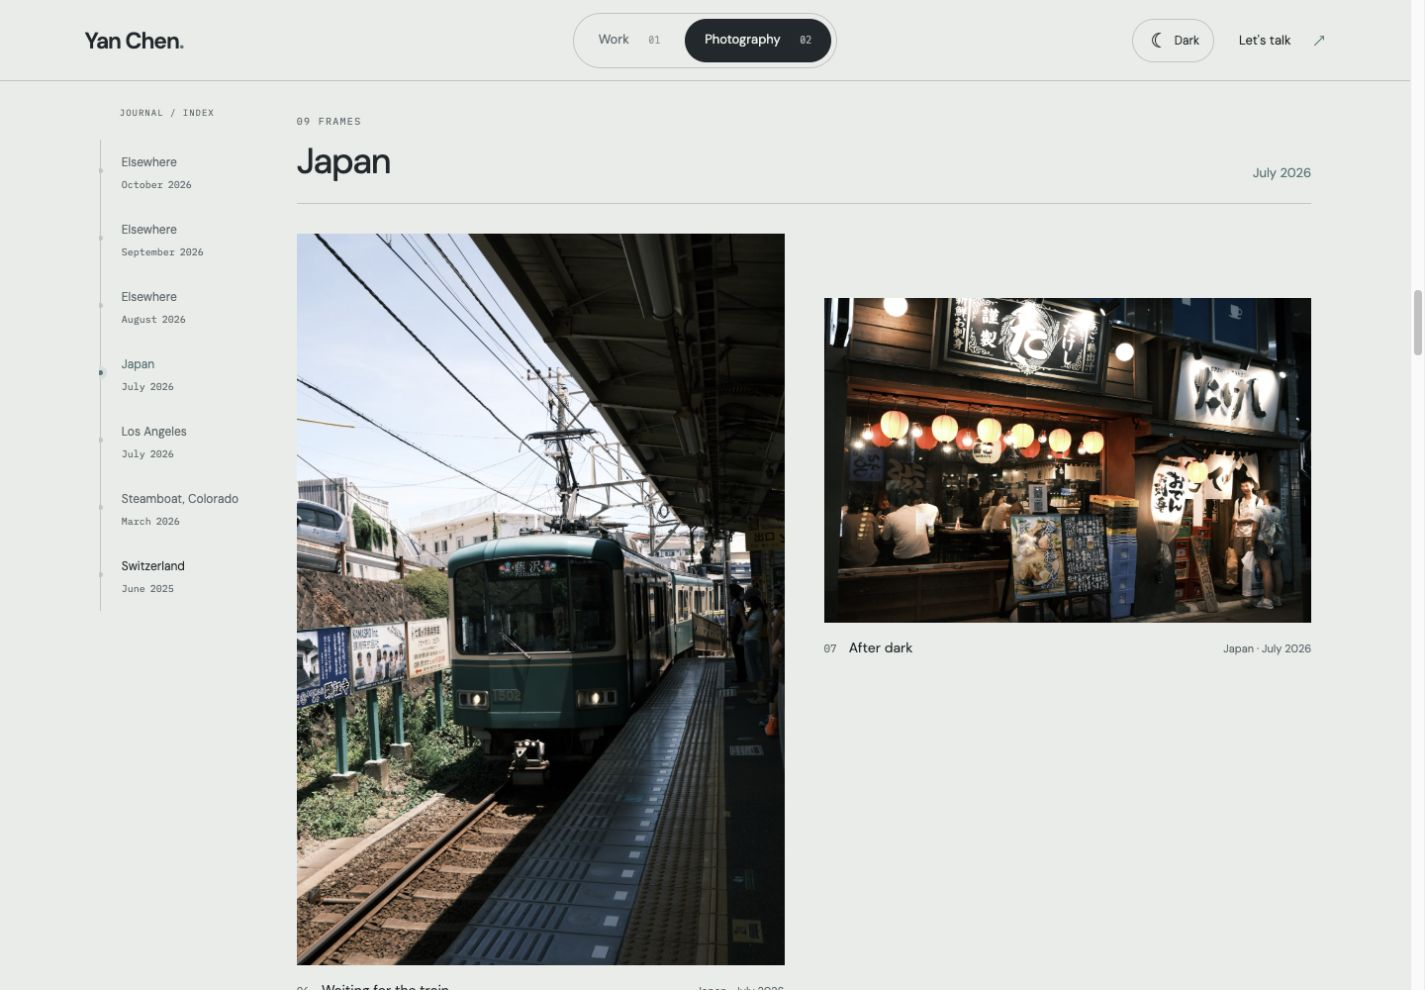
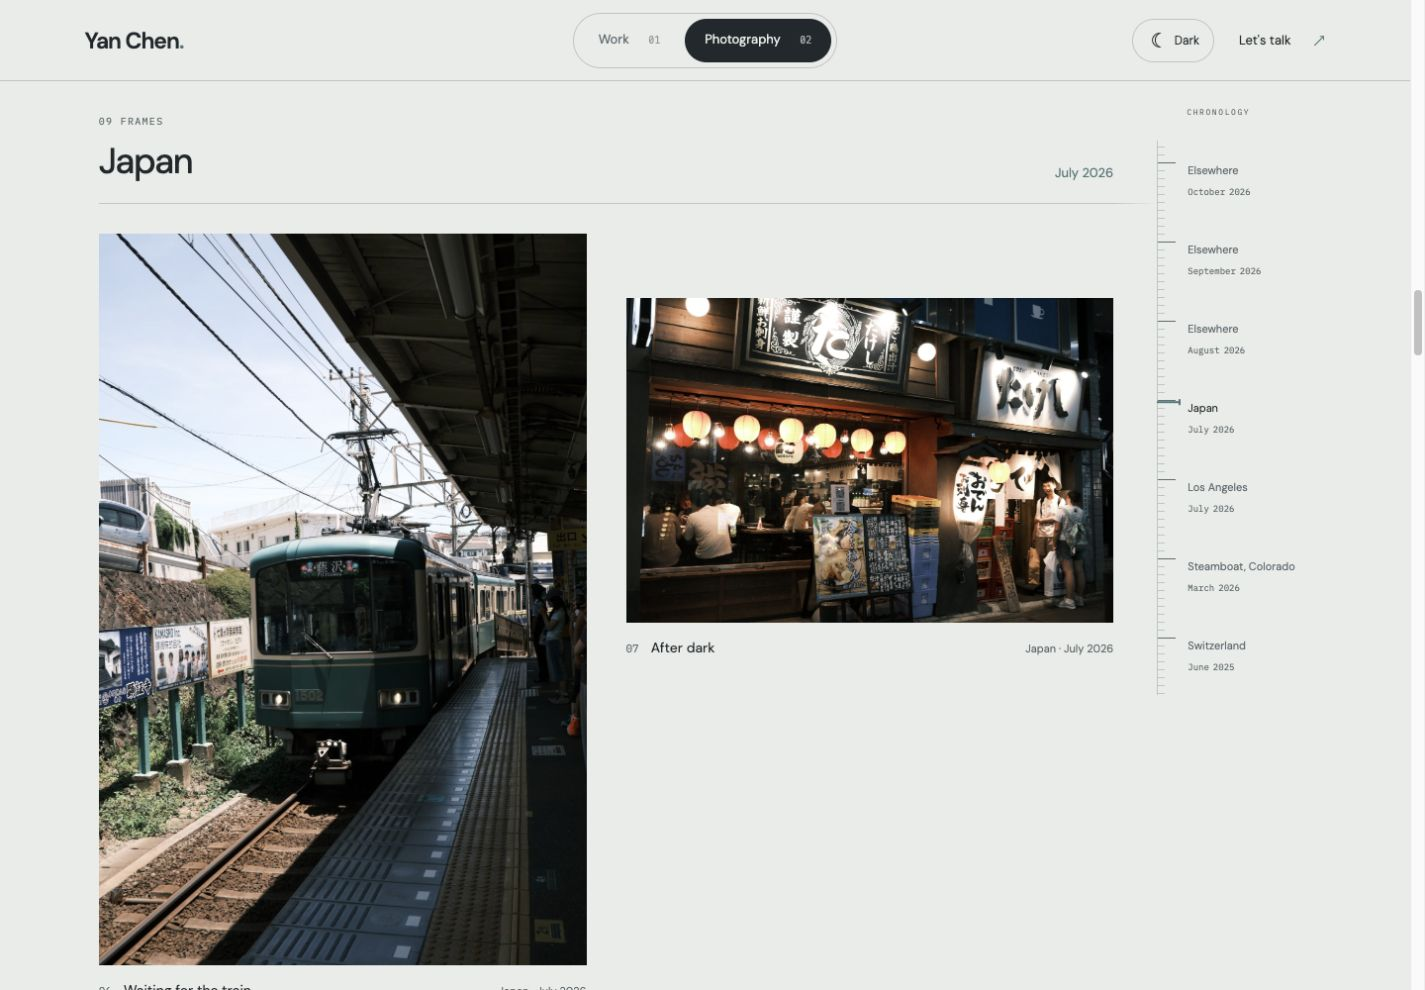
Integrate watch-style markers into the right photo timeline

diff --git a/style.css b/style.css
@@ -2713,49 +2713,112 @@ body[data-timeline="editorial"] .photo-timeline time span:last-child {
 body[data-timeline="editorial"] .photo-timeline button.active time {
   color: var(--accent);
 }
-/* 03 — Small annotations in the outer margin; the photographs lead. */
+/* The right margin becomes a continuous, watch-inspired chapter scale. */
+.timeline-hand {
+  display: none;
+}
 body[data-timeline="margin"] .photo-story {
-  grid-template-columns: minmax(0, 1fr) 140px;
-  gap: 50px;
+  --timeline-gap: 44px;
+  grid-template-columns: minmax(0, 1fr) 156px;
+  gap: var(--timeline-gap);
 }
 body[data-timeline="margin"] .photo-timeline {
   grid-column: 2;
   grid-row: 1;
-  padding: 0 0 0 16px;
-  border-left: 1px solid var(--line);
+  padding: 0;
+  border: 0;
+  background: transparent;
 }
 body[data-timeline="margin"] .photo-collections {
   grid-column: 1;
   grid-row: 1;
 }
 body[data-timeline="margin"] .photo-timeline:before {
-  content: "FIELD NOTES";
-  padding-left: 0;
-  letter-spacing: 1.5px;
+  content: "CHRONOLOGY";
+  padding: 0 0 24px 30px;
+  font-size: 8px;
+  letter-spacing: 1.6px;
 }
 body[data-timeline="margin"] .photo-timeline button {
   border: 0;
-  padding: 12px 0 12px 12px;
-  min-height: 73px;
+  border-left: 1px solid var(--line);
+  border-radius: 0;
+  padding: 12px 4px 12px 30px;
+  min-height: 80px;
+  background: transparent;
+}
+body[data-timeline="margin"] .photo-timeline button:focus-visible {
+  outline: 1px solid var(--accent);
+  outline-offset: -2px;
+}
+/* Fine divisions between the longer chapter markers. */
+body[data-timeline="margin"] .photo-timeline button:after {
+  content: "";
+  position: absolute;
+  inset: 6px auto 0 0;
+  width: 7px;
+  background: repeating-linear-gradient(
+    to bottom,
+    var(--line) 0 1px,
+    transparent 1px 8px
+  );
+  pointer-events: none;
 }
 body[data-timeline="margin"] .photo-timeline button:before {
-  width: 6px;
+  width: 18px;
   height: 1px;
   left: 0;
-  top: 20px;
+  top: 22px;
   border-radius: 0;
-  background: var(--line);
+  background: var(--muted);
   box-shadow: none;
+  z-index: 1;
 }
 body[data-timeline="margin"] .photo-timeline button.active:before {
-  width: 10px;
   background: var(--accent);
 }
 body[data-timeline="margin"] .timeline-place {
   font-size: 11px;
+  line-height: 1.5;
 }
 body[data-timeline="margin"] .photo-timeline time {
   font-size: 9px;
+  line-height: 1.5;
+  gap: 4px;
+}
+body[data-timeline="margin"] .timeline-hand {
+  display: block;
+  position: absolute;
+  top: 0;
+  left: 0;
+  width: 23px;
+  height: 2px;
+  background: var(--accent);
+  transform: translateY(var(--timeline-position, 54px));
+  pointer-events: none;
+  z-index: 3;
+}
+body[data-timeline="margin"] .timeline-hand:after {
+  content: "";
+  position: absolute;
+  right: -1px;
+  top: -2px;
+  width: 2px;
+  height: 6px;
+  background: var(--accent);
+}
+body[data-timeline="margin"] .collection-heading {
+  position: relative;
+}
+body[data-timeline="margin"] .collection-heading:after {
+  content: "";
+  position: absolute;
+  left: 100%;
+  bottom: -1px;
+  width: var(--timeline-gap);
+  height: 1px;
+  background: linear-gradient(to right, var(--line), transparent);
+  pointer-events: none;
 }
 @media (max-width: 1000px) {
   .photo-story,
@@ -2764,8 +2827,9 @@ body[data-timeline="margin"] .photo-timeline time {
     gap: 28px;
   }
   body[data-timeline="margin"] .photo-story {
-    grid-template-columns: minmax(0, 1fr) 110px;
-    gap: 25px;
+    --timeline-gap: 25px;
+    grid-template-columns: minmax(0, 1fr) 120px;
+    gap: var(--timeline-gap);
   }
   .photo-story .gallery:not(.sheet) {
     grid-template-columns: 1fr;
@@ -2792,8 +2856,9 @@ body[data-timeline="margin"] .photo-timeline time {
     margin-top: 10px;
   }
   body[data-timeline="margin"] .photo-story {
-    grid-template-columns: minmax(0, 1fr) 78px;
-    gap: 16px;
+    --timeline-gap: 16px;
+    grid-template-columns: minmax(0, 1fr) 88px;
+    gap: var(--timeline-gap);
   }
   .photo-timeline {
     top: 96px;
@@ -2866,14 +2931,16 @@ body[data-timeline="margin"] .photo-timeline time {
     align-self: start;
   }
   body[data-timeline="margin"] .photo-timeline {
-    padding-left: 8px;
+    padding-left: 0;
   }
   body[data-timeline="margin"] .photo-timeline:before {
-    font-size: 7px;
-    letter-spacing: 0.3px;
+    font-size: 6px;
+    letter-spacing: 0.5px;
+    padding-left: 22px;
   }
   body[data-timeline="margin"] .photo-timeline button {
-    padding-left: 8px;
+    padding-left: 22px;
+    min-height: 80px;
   }
   .job .job-summary {
     font-size: 15px;
@@ -2886,5 +2953,20 @@ body[data-timeline="margin"] .photo-timeline time {
   }
   body[data-timeline="editorial"] .photo-timeline time {
     font-size: 16px;
+  }
+}
+
+@media (max-width: 650px) {
+  body[data-timeline="margin"] .timeline-place {
+    font-size: 10px;
+  }
+  body[data-timeline="margin"] .photo-timeline button:before {
+    width: 14px;
+  }
+  body[data-timeline="margin"] .photo-timeline button:after {
+    width: 5px;
+  }
+  body[data-timeline="margin"] .timeline-hand {
+    width: 18px;
   }
 }

diff --git a/app.js b/app.js
@@ -3,7 +3,7 @@ document.body.dataset.timeline = ["rail", "editorial", "margin"].includes(
   requestedTimeline,
 )
   ? requestedTimeline
-  : "rail";
+  : "margin";
 const projects = [
   {
     title: "CI/CD Pipeline for Python APIs",
@@ -361,6 +361,26 @@ function updateTimeline() {
   for (const section of sections) {
     if (section.getBoundingClientRect().top <= edge) current = section;
   }
+  const nav = document.querySelector("#photo-timeline");
+  const buttons = [...nav.querySelectorAll("[data-trip-target]")];
+  const index = sections.indexOf(current);
+  const rect = current.getBoundingClientRect();
+  const next = sections[index + 1];
+  const span = next ? next.getBoundingClientRect().top - rect.top : rect.height;
+  const progress = Math.max(
+    0,
+    Math.min(1, (edge - rect.top) / Math.max(1, span)),
+  );
+  const start = buttons[index];
+  const end = buttons[index + 1];
+  if (start) {
+    const position =
+      start.offsetTop +
+      22 +
+      progress *
+        (end ? end.offsetTop - start.offsetTop : start.offsetHeight - 22);
+    nav.style.setProperty("--timeline-position", `${position}px`);
+  }
   if (current.dataset.trip === activeTrip) return;
   activeTrip = current.dataset.trip;
   document.querySelectorAll("[data-trip-target]").forEach((button) => {
@@ -369,8 +389,7 @@ function updateTimeline() {
     if (selected) button.setAttribute("aria-current", "location");
     else button.removeAttribute("aria-current");
   });
-  const button = document.querySelector(`[data-trip-target="${activeTrip}"]`),
-    nav = document.querySelector("#photo-timeline");
+  const button = document.querySelector(`[data-trip-target="${activeTrip}"]`);
   if (button)
     nav.scrollTo({
       top: button.offsetTop - nav.clientHeight / 2 + button.offsetHeight / 2,
@@ -423,12 +442,14 @@ function renderGallery() {
         .join("")}</div></section>`;
     })
     .join("");
-  document.querySelector("#photo-timeline").innerHTML = trips
-    .map(
-      (trip) =>
-        `<button data-trip-target="${trip.id}" aria-label="Scroll to ${trip.location}, ${trip.date}"><span class="timeline-number" aria-hidden="true">${String(trips.indexOf(trip) + 1).padStart(2, "0")}</span><span class="timeline-place">${trip.location}</span><time datetime="${trip.datetime}"><span>${trip.date.split(" ")[0]}</span> <span>${trip.date.split(" ")[1]}</span></time></button>`,
-    )
-    .join("");
+  document.querySelector("#photo-timeline").innerHTML =
+    `<span class="timeline-hand" aria-hidden="true"></span>` +
+    trips
+      .map(
+        (trip) =>
+          `<button data-trip-target="${trip.id}" aria-label="Scroll to ${trip.location}, ${trip.date}"><span class="timeline-number" aria-hidden="true">${String(trips.indexOf(trip) + 1).padStart(2, "0")}</span><span class="timeline-place">${trip.location}</span><time datetime="${trip.datetime}"><span>${trip.date.split(" ")[0]}</span> <span>${trip.date.split(" ")[1]}</span></time></button>`,
+      )
+      .join("");
   activeTrip = null;
   document.querySelector("#gallery-status").textContent =
     `${indices.length} photographs · ${trips.length} ${trips.length === 1 ? "collection" : "collections"}`;

diff --git a/README.md b/README.md
@@ -52,8 +52,8 @@ Typography uses DM Sans and IBM Plex Mono from Google Fonts, with system fallbac
 
 ## Timeline design previews
 
-- `?timeline=rail#photography`: thin vertical rail and dots (default).
+- `?timeline=rail#photography`: thin vertical rail and dots.
 - `?timeline=editorial#photography`: numbered editorial index with italic month labels.
-- `?timeline=margin#photography`: compact notes in the right margin.
+- `?timeline=margin#photography`: watch-inspired scale in the right margin (default), with fine ticks, longer trip markers, and a hand that follows scroll progress.
 
 The site does not host or link to a résumé PDF. Bloomberg is presented as a concise prose summary.
